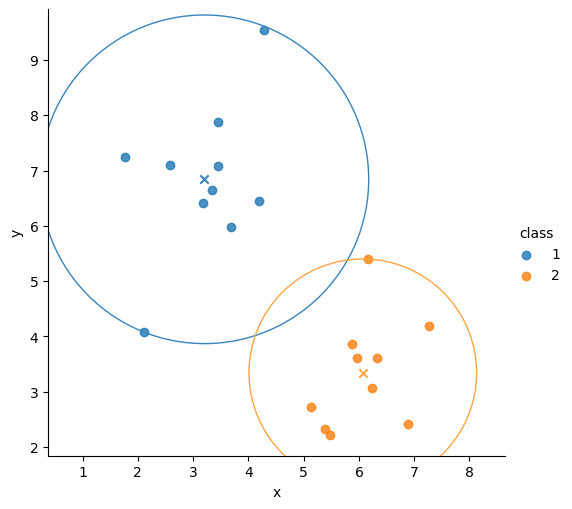
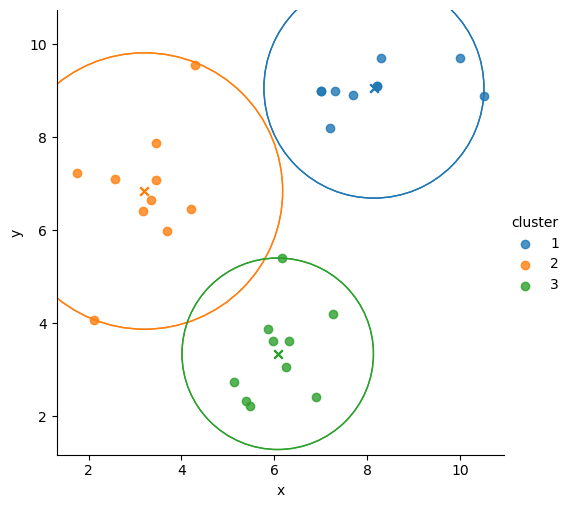
update file update exp03 result show

diff --git a/DataMining exp 03/showWhileCpp.py b/DataMining exp 03/showWhileCpp.py
@@ -2,12 +2,13 @@ import pandas as pd
 import seaborn as sns
 import matplotlib.pyplot as plt
 
-df = pd.read_table("./sourceData/datakmean.txt",sep=',',header=None)
-df.columns=['x','y']
+# df = pd.read_table("./sourceData/datakmean.txt",sep=',',header=None)
+# df.columns=['x','y']
 
-rawData = pd.read_table('./sourceData/datakmean.txt',sep=',',header=None)
+rawData = pd.read_table('./sourceData/datakmeanAddition.txt',sep=',',header=None)
 dataSize = rawData.shape[0]
-k=2
+
+k=int(input("Enter K:"))
 
 df = pd.read_table("./output/procedure.txt",sep=',',header=None)
 df.columns=['x','y','cluster']
@@ -28,17 +29,19 @@ if df.shape[1]==2:
     plt.savefig('example_x_y.png',bbox_inches='tight')
     plt.show()
 
+
+colorList = sns.color_palette()
 if df.shape[1]==3:
     sns.lmplot('x','y',data=df,hue='cluster',fit_reg=False)
-    plt.scatter(cenX[0],cenY[0],color='#3785BC',marker ='x')
-    plt.scatter(cenX[1],cenY[1],color='#FFA543',marker ='x')
-    plt.axis('equal')
     ax = plt.gca()
-    disk1 = plt.Circle((cenX[0],cenY[0]), cenR[0], color='#3785BC', fill=False)
-    ax.add_artist(disk1)
-    disk2 = plt.Circle((cenX[1],cenY[1]), cenR[1], color='#FFA543', fill=False)
-    ax.add_artist(disk2)
-    plt.Circle((cenX[0],cenY[0]),cenR[0])
+    for i in range(k):
+        plt.scatter(cenX[i],cenY[i],color=colorList[i],marker ='x')
+        plt.scatter(cenX[i],cenY[i],color=colorList[i],marker ='x')
+        plt.axis('equal')
+        disk1 = plt.Circle((cenX[i],cenY[i]), cenR[i], color=colorList[i], fill=False)
+        ax.add_artist(disk1)
+        disk2 = plt.Circle((cenX[i],cenY[i]), cenR[i], color=colorList[i], fill=False)
+        ax.add_artist(disk2)
     # plt.scatter(cenX[2],cenY[2],color='#4EAF4E',marker ='x')
     plt.savefig('result.png',bbox_inches='tight')
     plt.show()

diff --git a/DataMining exp 03/kmeans.cpp b/DataMining exp 03/kmeans.cpp
@@ -256,13 +256,13 @@ void kMean(vector<point> &data, int k)
 
 int main()
 {
-    string fileName = "./sourceData/datakmean.txt";
+    string fileName = "./sourceData/datakmeanAddition.txt";
     ofstream outResult("./output/clustering result k 2.txt");
 
     vector<point> data;
     if (get_data(fileName, data))
     {
-        int k = 2;
+        int k = 3;
 
         kMean(data, k);
 
